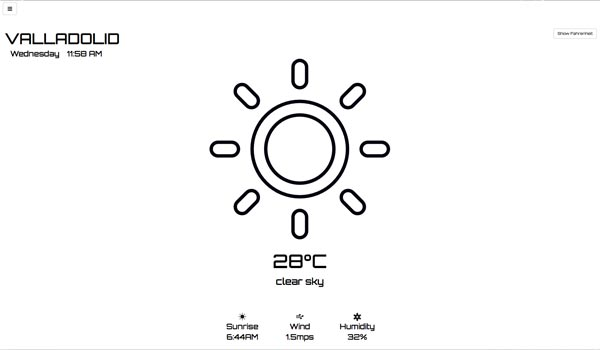
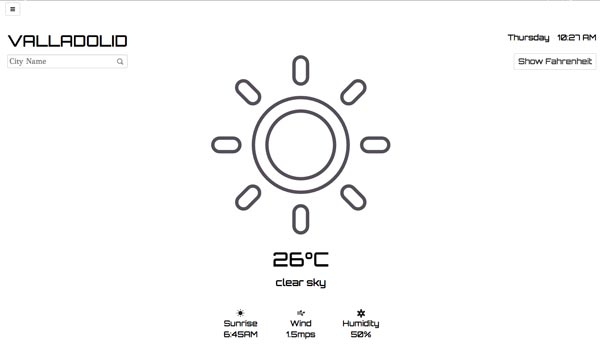
add some description for weather app

diff --git a/project/project.html b/project/project.html
@@ -89,9 +89,11 @@
 
                                 <div class="modal-body">
                                     <p>This is another project from FreeCode Camp, and it requires using API to get the current weather. And this is my first time to build a web page using API, so I did find it a little difficult, but in the end I have made it and I´ve learned a lot how to deal with AJAX and geolocation by building this page.</p>
+                                    
                                     <p>How to design the page is really bothering me a lot. finllay I decide use just white background to represent a simply and clear interface.</p>
-                                    <p>So basically this app can show you the current location, the date, temperature, a simply description, sunrise time, wind speed, humidity and can turn the tempwratur from celsius to fahrenheit.</p>
-                                    <p>I hope you like it</p>
+                                    <p>So basically this app can show you the current location, the date, temperature, a simply description, sunrise time, wind speed, humidity and can turn the tempwratur from celsius to fahrenheit. And finally I add a search bar that can allows you to search the weather of another city, and another button to come back to the current city. 
+                                    <p>I used a jquery plugin called easyAutoComplete to help me finish the live search bar, but the challenge is how to position the search bar nad how to rewrite the css, it really took me a lot time to figure it out.</p>
+                                    <p>I hope you like it.</p>
                                     <a href="local_weather/weather.html"><button type="button" class="btn btn-info">View the project</button></a>
                                 </div>
                                 <!---------modal body-->
